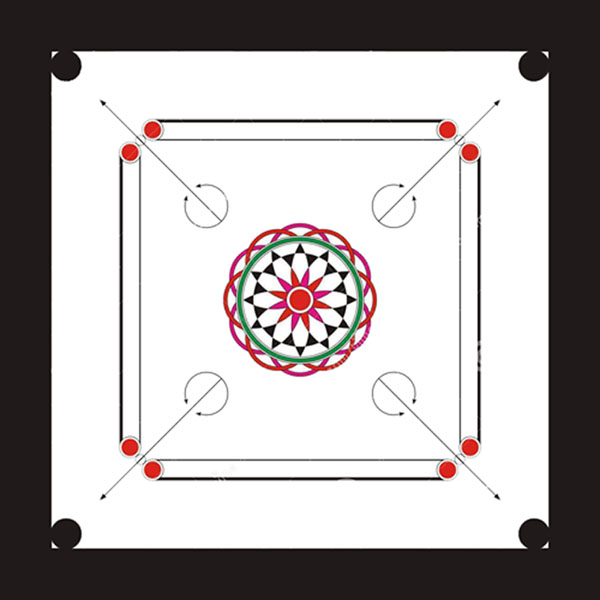
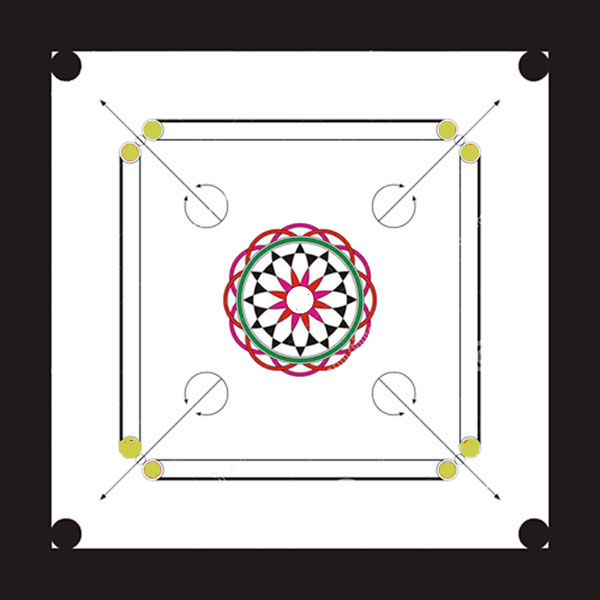
board rotation

diff --git a/js/CarromPieceMove.js b/js/CarromPieceMove.js
@@ -9,12 +9,15 @@ function CarromPieceMove()
     var wrapper;
     var carromBoard;
     var arrow;
+    var rotateBoardAngle = 180;
+    var noOfBoardRotation = 0;
+    var queenpillo;
 
 // initialize variables of class.
     this.initialization = function()
     {
         totalCarromMen= 19;
-        totalblack = 9;
+        totalblack = 2;
         totalwhite = 9;
         carromMen = [];
 
@@ -84,7 +87,7 @@ function CarromPieceMove()
     	striker = new CarromPiece();
     	striker.addClass("gotti striker");
     	striker.appendTo(carromBoard);
-    	striker.initGottiPos(280,468);
+    	striker.initGottiPos(300,468);
         striker.element.style.backgroundImage = "url('images/striker.png')";
         striker.radius = 15;
         striker.initSpeed(0,0); 
@@ -100,11 +103,46 @@ function CarromPieceMove()
         arrow = document.createElement("div");
         arrow.setAttribute("class", "arrow");
         carromBoard.appendChild(arrow);
+    }
+
+    this.rotateBoard = function()
+    {        
+        carromBoard.style.webkitTransform = 'rotate(' + rotateBoardAngle + 'deg)';
+        carromBoard.style.oTransform      = 'rotate(' + rotateBoardAngle + 'deg)';
+        carromBoard.style.msTransform     = 'rotate(' + rotateBoardAngle + 'deg)';
+        carromBoard.style.transform       = 'rotate(' + rotateBoardAngle + 'deg)';
+
+        if(noOfBoardRotation%2 == 1)
+        {
+            carromMen[totalCarromMen - 1].initGottiPos(300, 468);
+            carromMen[totalCarromMen-1].angle = 90;
+            carromMen[totalCarromMen-1].rotation = false;
+            console.log("player2");
+        }
+        else
+        {
+            carromMen[totalCarromMen - 1].initGottiPos(300, 132);
+            carromMen[totalCarromMen-1].angle = 270;
+            carromMen[totalCarromMen-1].rotation = true;
+            console.log("player1");
+        } 
+        carromMen[totalCarromMen - 1].initSpeed(0, 0);
+        rotateBoardAngle += 180; 
+        noOfBoardRotation++; 
+    }
+
+    this.eventHandling = function(event)
+    {
+        if(event.keyCode == 71)
+        {
+            that.rotateBoard();
+        }
     }       
 
     this.animate = function()
     { 
-        window.addEventListener("keydown", carromMen[totalCarromMen-1].eventHandling, false);                               
+        window.addEventListener("keydown", carromMen[totalCarromMen-1].eventHandling, false);
+        window.addEventListener("keydown", that.eventHandling, false);                               
         function move()
         {            
             for(var i = 0; i < totalCarromMen-1; i++)
@@ -120,18 +158,25 @@ function CarromPieceMove()
                         totalwhite--;
                         console.log("white  " + totalwhite);
                     }
-                    else if(carromMen[i].white = false)
+                    if(carromMen[i].white = false)
                     {
                         totalblack--;
                         console.log("black  " + totalblack);
                     }
 
-                    if(carromMen[i].queen == true && totalblack > 1 && totalwhite > 1)
-                    {  
-                        console.log("black  " + totalblack);
-                        console.log("white  " + totalblack);  
-                        carromMen[i].initGottiPos(300, 300);
-                        carromMen[i].initSpeed(0, 0);
+                    if(carromMen[i].queen == true)
+                    {
+                        if(totalblack > 1 && totalwhite > 1)
+                        {
+                            carromMen[i].initGottiPos(300, 300);
+                            carromMen[i].initSpeed(0, 0);
+                        }
+                        else
+                        {
+                            queenpillo = true;                              
+                            carromMen[i].initGottiPos(600, 300);
+                            carromMen[i].initSpeed(0, 0);
+                        }
                     }
 
                     else
@@ -140,6 +185,12 @@ function CarromPieceMove()
                         carromMen.splice(i, 1);
                         console.log(carromMen.length);
                         totalCarromMen = carromMen.length;
+
+                        if(queenpillo == true)
+                        {
+                            carromMen[totalCarromMen-2].initSpeed(0,0);
+                            carromMen[totalCarromMen-2].initGottiPos(300, 300);
+                        }
                     } 
                 }
 
@@ -153,7 +204,7 @@ function CarromPieceMove()
                 var b = carromMen[totalCarromMen - 1].checkhole(); 
                 if(b == true)
                 {                    
-                    carromMen[totalCarromMen - 1].initGottiPos(280, 468);
+                    carromMen[totalCarromMen - 1].initGottiPos(300, 468);
                     carromMen[totalCarromMen - 1].initSpeed(0, 0);
                 }                                 
             

diff --git a/js/CarromPiece.js b/js/CarromPiece.js
@@ -20,7 +20,8 @@ function CarromPiece()
     this.boardBorder = 52;
     this.getVelo = 0;
     this.holeRadius = 16;
-    var sound = new Audio("C:/Users/Santosh/Desktop/crm-backup/carrom/sound/tictic.wav");    
+    var sound = new Audio("sound/tictic.wav"); 
+    this.rotation;   
 
 	this.appendTo = function(parentElement) 
 	{
@@ -209,7 +210,6 @@ function CarromPiece()
 
         if(event.keyCode == 65)
         {
-
             that.velocity = that.getVelo;             
             that.dx = that.velocity*Math.cos(that.angle*Math.PI/180);
             that.dy = that.velocity*Math.sin(that.angle*Math.PI/180); 
@@ -241,13 +241,20 @@ function CarromPiece()
         {
             if(Math.abs(that.dx) <= 0.05 && Math.abs(that.dy) <= 0.05)
             {
-                that.initGottiPos(280, 468);
+                if(that.rotation == true)
+                {
+                    that.initGottiPos(300, 132);
+                }
+                else
+                {
+                    that.initGottiPos(300, 468);                    
+                }
             }
         }
 
         if(event.keyCode == 69)
         {
-            that.slideup();            
+            that.slideup();
         }
 
         if(event.keyCode == 70)

diff --git a/css/style.css b/css/style.css
@@ -9,6 +9,8 @@
 	height: 600px;
 	background-color: gray;
 	background-image: url("../images/carromBoard.jpg"); 
+	-webkit-transform:rotate(0deg);
+	transform-origin: 300px 300px;
 	position: relative;
 	margin: 0px auto;
 }
